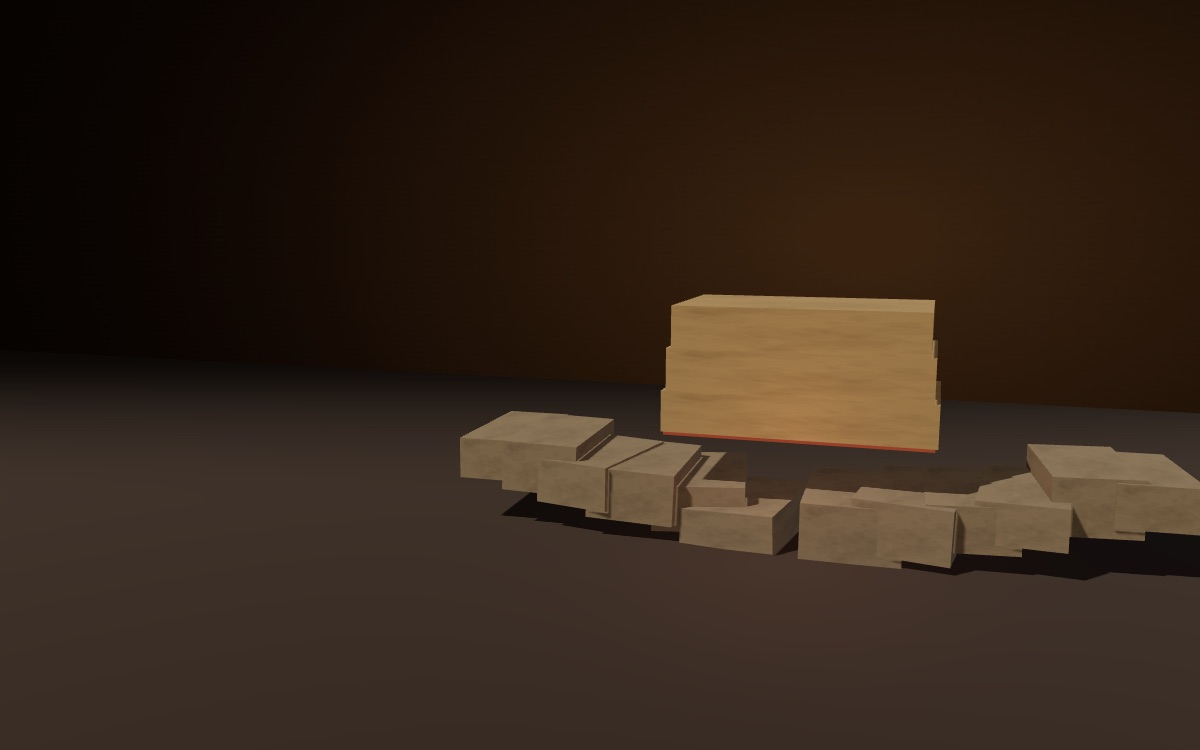
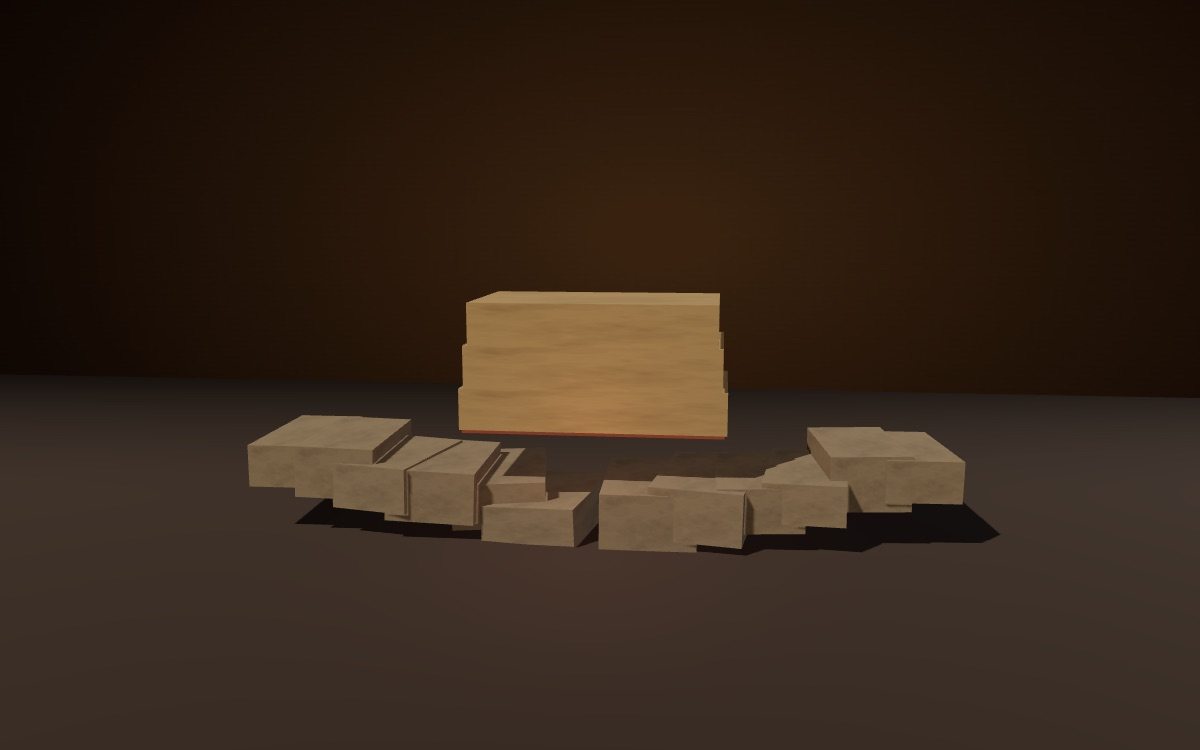
Glossaire : lutte-des-classes réécrite selon la charte, direction artistique « l'immeuble en coupe »

Changed region(s): [[0.185, 0.368, 1.0, 0.7973], [0.9558, 0.5213, 1.0, 0.552]]

diff --git a/glossaire/mondes/lutte-des-classes/essai.html b/glossaire/mondes/lutte-des-classes/essai.html
@@ -1,55 +1,80 @@
-<!-- L'ESSAI — le corps de /glossaire/lutte-des-classes. Première page de notion
+<!-- L'ESSAI : le corps de /glossaire/lutte-des-classes. Première page de notion
      tirée du Manifeste : data-s="1" partout, le texte de Laura Lafargue tenant
-     en une seule page Wikisource, donc en une seule section de liseuse. Toutes
-     les citations sont relevées dans le texte que la liseuse sert (typographie
-     comprise) et chacune mène au passage. La lettre à Weydemeyer, la note
-     d'Engels de 1888 et le chapitre inachevé du Livre III ne sont pas servis :
-     ils sont PARAPHRASÉS et situés, jamais cités entre guillemets. -->
+     en une seule page Wikisource, donc en une seule section de liseuse.
+     Réécrit en octobre 2026 selon glossaire/mondes/CHARTE.md.
+     Toutes les citations sont relevées dans le texte que la liseuse sert
+     (apostrophe typographique, majuscules de Lafargue comprises) et chacune
+     mène au passage. La lettre à Weydemeyer, la note d'Engels de 1888 et le
+     chapitre inachevé du Livre III ne sont pas servis : ils sont PARAPHRASÉS
+     et situés, jamais cités entre guillemets. -->
 
 <section class="nt-sec" data-etape="phrase" id="difficulte">
-<h2>Une phrase trop connue</h2>
-<p>Il n'est guère de phrase de Marx et d'Engels que l'on cite davantage que celle qui ouvre la première partie du <i>Manifeste</i>, et il n'en est guère que l'on lise moins. Sa célébrité même en fait un obstacle, en cela qu'elle a pris la forme d'un slogan&nbsp;: on croit y entendre que l'histoire humaine se réduirait à un seul conflit, toujours le même, entre ceux qui ont et ceux qui n'ont pas. Or le texte, dès le paragraphe suivant, dit tout autre chose, et c'est en le suivant de près qu'on mesure ce que la thèse affirme et ce qu'elle n'affirme pas. La phrase énumère d'abord des couples&nbsp;:</p>
+<h2>Que dit la première phrase du <i>Manifeste</i>&nbsp;?</h2>
+<p class="nt-lead">Elle dit que toute société divisée repose sur une opposition entre ceux qui dominent et ceux qui sont dominés, et que cette opposition fait l'histoire. Le paragraphe suivant décrit pourtant les sociétés passées comme une échelle de rangs&nbsp;: c'est sous cette échelle que l'opposition se trouve.</p>
+<p>Peu de phrases de Marx et d'Engels sont plus citées que celle qui ouvre la première partie du <i>Manifeste du parti communiste</i>&nbsp;:</p>
+<blockquote data-s="1" data-q="L’histoire de toute société jusqu’à nos jours n’a été que l’histoire de luttes de classes"><p>L’histoire de toute société jusqu’à nos jours n’a été que l’histoire de luttes de classes.</p></blockquote>
+<p>Elle est devenue un slogan, et le slogan a recouvert la phrase. On croit y entendre que l'histoire humaine se réduit à un seul conflit, toujours le même, entre ceux qui ont et ceux qui n'ont pas. Le texte procède autrement. Il commence par énumérer des couples, qui changent de nom d'une époque à l'autre&nbsp;:</p>
 <blockquote data-s="1" data-q="Hommes libres et esclaves, patriciens et plébéiens, barons et serfs, maîtres de jurandes et compagnons, en un mot oppresseurs et opprimés, en opposition constante, ont mené une guerre ininterrompue, tantôt ouverte, tantôt dissimulée"><p>Hommes libres et esclaves, patriciens et plébéiens, barons et serfs, maîtres de jurandes et compagnons, en un mot oppresseurs et opprimés, en opposition constante, ont mené une guerre ininterrompue, tantôt ouverte, tantôt dissimulée […]</p></blockquote>
-<p>Toute la difficulté est là. Les couples changent de nom d'une époque à l'autre, et l'opposition, elle, demeure&nbsp;; mais aussitôt après, le texte décrit les sociétés anciennes non comme deux camps, mais comme <q data-s="1" data-q="une division hiérarchique de la société, une échelle graduée de positions sociales">une division hiérarchique de la société, une échelle graduée de positions sociales</q>, où l'on trouve à Rome des patriciens, des chevaliers, des plébéiens et des esclaves, et <q data-s="1" data-q="dans chacune de ces classes, des gradations spéciales">dans chacune de ces classes, des gradations spéciales</q>. La thèse ne prétend donc pas que les sociétés passées aient été divisées en deux&nbsp;: elles étaient étagées, et c'est sous cet étagement que le texte fait apparaître une opposition. Il faut, pour comprendre la notion, tenir ensemble les deux descriptions, l'échelle et l'antagonisme, et c'est pourquoi nous partirons de leur écart plutôt que de la formule.</p>
-<p>Encore la formule elle-même a-t-elle été restreinte par l'un de ses auteurs. Dans une note ajoutée à l'édition anglaise de 1888, Engels précise qu'il faut entendre par là toute l'histoire <em>écrite</em>&nbsp;: en 1847, la préhistoire des sociétés était presque inconnue, et les travaux venus depuis — sur la propriété commune du sol, sur l'organisation de la gens — ont montré que la division en classes a eu un commencement. La restriction n'affaiblit pas la thèse, elle en précise la portée&nbsp;: la lutte des classes n'est pas une constante de la nature humaine, c'est un fait d'histoire, et ce qui a commencé peut finir.</p>
+<p>Aussitôt après, il décrit les mêmes sociétés tout autrement. On y trouve <q data-s="1" data-q="une division hiérarchique de la société, une échelle graduée de positions sociales">une division hiérarchique de la société, une échelle graduée de positions sociales</q>&nbsp;: à Rome des patriciens, des chevaliers, des plébéiens et des esclaves, au Moyen Âge des seigneurs, des vassaux, des maîtres, des compagnons et des serfs, et <q data-s="1" data-q="dans chacune de ces classes, des gradations spéciales">dans chacune de ces classes, des gradations spéciales</q>. Les sociétés anciennes étaient donc étagées. C'est sous cet étagement que le texte fait apparaître une opposition. Pour comprendre la notion, il faut tenir ensemble les deux descriptions, l'échelle et l'antagonisme, et c'est de leur écart qu'on partira.</p>
+<p>Engels a lui-même restreint la portée de la phrase. Dans une note ajoutée à l'édition anglaise de 1888, il précise qu'il faut entendre toute l'histoire <em>écrite</em>&nbsp;: en 1847, on ne savait presque rien de la préhistoire, et les travaux parus depuis sur la propriété commune du sol et sur l'organisation de la gens ont montré que la division en classes a eu un commencement. La thèse y gagne en exactitude. La lutte des classes est un fait d'histoire, et ce qui a commencé peut finir.</p>
 </section>
 
 <section class="nt-sec" data-etape="ou" id="ou">
-<h2>Où le texte la pose&nbsp;: en tête, et sans la définir</h2>
-<p>Le <i>Manifeste</i> n'est pas un traité, et la place de la notion ne s'y comprend qu'à partir de ce qu'il est&nbsp;: un programme, rédigé par Marx et Engels pour la Ligue des communistes à la fin de 1847 et publié à Londres en février 1848. On n'y trouvera nulle part de définition de la classe ni de la lutte des classes. La notion n'est pas exposée, elle est mise au travail, et c'est précisément ce qui justifie qu'elle vienne en tête&nbsp;: la première phrase ne résume pas le texte, elle en fournit la grille de lecture. Si l'histoire est celle de luttes de classes, alors la société bourgeoise n'en est pas le terme mais un moment, la bourgeoisie doit être jugée à ce qu'elle a fait dans cette histoire, et le prolétariat se présente comme la classe que ce moment a produite. Tout l'ordre de la première partie découle de là, comme le montre le <a href="/oeuvres/manifeste#deriv">cheminement du Manifeste</a>.</p>
-<p>La nouveauté de la notion n'est d'ailleurs pas où on la place d'ordinaire, et Marx lui-même a pris soin de le dire. Dans une lettre à Joseph Weydemeyer du 5 mars 1852, il écrit en substance que ce n'est pas à lui que revient le mérite d'avoir découvert l'existence des classes ni leur lutte, que des historiens bourgeois — on pense aux historiens de la Restauration, Augustin Thierry ou Guizot — en avaient décrit le développement bien avant lui, et que ce qu'il a apporté tient ailleurs&nbsp;: dans la liaison de l'existence des classes à des phases déterminées du développement de la production, et dans la thèse que cette lutte conduit à une transition vers une société sans classes. Le concept n'est donc pas l'observation du conflit, que d'autres avaient faite, mais son inscription dans l'histoire des modes de production.</p>
-<p>Un détail de traduction mérite qu'on s'y arrête, parce qu'il touche au sens. L'allemand dit <i lang="de">Klassenkämpfe</i>, au pluriel&nbsp;: des luttes de classes, non une lutte unique. Laura Lafargue le respecte dans la première phrase, puis écrit plus loin, au singulier et avec l'article, <q data-s="1" data-q="au moment où la lutte des classes approche de l’heure décisive">au moment où la lutte des classes approche de l'heure décisive</q>. Le glissement n'est pas une infidélité&nbsp;: il suit le texte lui-même, qui part de luttes multiples et locales pour montrer comment elles deviennent une seule lutte. Le pluriel de la première phrase est la condition de ce que le reste démontre.</p>
+<h2>Pourquoi le <i>Manifeste</i> ne définit-il pas la lutte des classes&nbsp;?</h2>
+<p class="nt-lead">Parce qu'il s'en sert comme d'une méthode. La notion vient en tête comme une grille de lecture, et tout le reste du texte l'applique à la société moderne.</p>
+<p>Le <i>Manifeste</i> est un programme, rédigé par Marx et Engels pour la Ligue des communistes à la fin de 1847 et publié à Londres en février 1848. On n'y trouve aucune définition de la classe ni de la lutte des classes. La première phrase sert de méthode&nbsp;: si l'histoire est faite de luttes de classes, la société bourgeoise en est un moment et non le terme, la bourgeoisie se juge à ce qu'elle a fait dans cette histoire, et le prolétariat apparaît comme la classe que ce moment a produite. L'ordre de la première partie, «&nbsp;Bourgeois et prolétaires&nbsp;», découle de là, comme le montre le <a href="/oeuvres/manifeste#deriv">cheminement du Manifeste</a>.</p>
+<p>Marx a pris soin de dire où se trouvait sa contribution. Dans une lettre à Joseph Weydemeyer du 5 mars 1852, il écrit en substance que le mérite d'avoir découvert l'existence des classes et leur lutte ne lui revient pas&nbsp;: des historiens bourgeois en avaient décrit le développement bien avant lui (on pense aux historiens français de la Restauration, comme Augustin Thierry ou Guizot). Ce qu'il revendique tient en deux points&nbsp;: avoir lié l'existence des classes à des phases déterminées du développement de la production, et soutenu que cette lutte mène à une transition vers une société sans classes. Le concept marxien ajoute donc au constat du conflit son inscription dans l'histoire de la production.</p>
+<p>Un détail de traduction touche au sens. L'allemand dit <i lang="de">Klassenkämpfe</i>, au pluriel&nbsp;: des luttes de classes. Laura Lafargue respecte ce pluriel dans la première phrase, puis écrit plus loin, au singulier et avec l'article, <q data-s="1" data-q="au moment où la lutte des classes approche de l’heure décisive">au moment où la lutte des classes approche de l’heure décisive</q>. Elle suit ainsi le mouvement du texte, qui part de luttes multiples et locales pour montrer comment elles deviennent une seule lutte. Le pluriel de la première phrase annonce ce que la suite va démontrer.</p>
 </section>
 
 <section class="nt-sec" data-etape="simplification" id="simplification">
-<h2>La distinction&nbsp;: l'échelle et l'antagonisme</h2>
-<p>Deux manières de décrire une société se trouvent donc côte à côte dans le texte, et la notion tient dans leur différence. La première est une échelle&nbsp;: des rangs, des positions plus ou moins élevées, un continu de gradations où chacun est au-dessus de quelqu'un et au-dessous de quelqu'un d'autre. La seconde est un antagonisme&nbsp;: un rapport où la condition de l'un est la condition de l'autre, de sorte qu'ils ne peuvent être pensés séparément. Une échelle se décrit, un antagonisme s'explique. Or la société moderne, selon le <i>Manifeste</i>, n'a pas supprimé l'antagonisme&nbsp;; elle <q data-s="1" data-q="n’a fait que substituer aux anciennes, de nouvelles classes, de nouvelles conditions d’oppression, de nouvelles formes de lutte">n'a fait que substituer aux anciennes, de nouvelles classes, de nouvelles conditions d'oppression, de nouvelles formes de lutte</q>. Ce qui la distingue est ailleurs&nbsp;:</p>
+<h2>Qu'est-ce qui distingue une classe d'un rang&nbsp;?</h2>
+<p class="nt-lead">Un rang est une place sur une échelle&nbsp;; une classe se définit par son rapport à une autre classe, dont elle ne peut être séparée. L'époque bourgeoise, selon le <i>Manifeste</i>, fait passer la société de l'échelle à l'antagonisme.</p>
+<p>Une échelle se décrit&nbsp;: des positions plus ou moins élevées, un continu de gradations où chacun se trouve au-dessus de quelqu'un et au-dessous d'un autre. Un antagonisme, lui, s'explique&nbsp;: c'est un rapport où la condition de l'un fait la condition de l'autre, de sorte qu'on ne peut penser l'un sans l'autre. Le seigneur n'est seigneur que par le serf qui lui doit la corvée. La société moderne n'a pas supprimé cet antagonisme. Elle <q data-s="1" data-q="n’a fait que substituer aux anciennes, de nouvelles classes, de nouvelles conditions d’oppression, de nouvelles formes de lutte">n’a fait que substituer aux anciennes, de nouvelles classes, de nouvelles conditions d’oppression, de nouvelles formes de lutte</q>. Sa nouveauté est ailleurs&nbsp;:</p>
 <blockquote data-s="1" data-q="Cependant, le caractère distinctif de notre époque, de l’ère de la Bourgeoisie, est d’avoir simplifié les antagonismes de classes"><p>Cependant, le caractère distinctif de notre époque, de l’ère de la Bourgeoisie, est d’avoir simplifié les antagonismes de classes. La société se divise de plus en plus en deux vastes camps opposés, en deux classes ennemies&nbsp;: la Bourgeoisie et le Prolétariat.</p></blockquote>
-<p>Deux mots de cette phrase empêchent d'en faire une photographie. <i>Simplifié</i>, d'abord&nbsp;: la simplification est un résultat, non un état premier, et elle désigne le passage de l'échelle à l'antagonisme — les gradations se résorbent à mesure que la société se polarise. <i>De plus en plus</i>, ensuite&nbsp;: il s'agit d'une tendance et non d'un recensement. Les couches intermédiaires ne disparaissent pas par décret, elles tombent. Les petits industriels, les marchands, les artisans, les paysans propriétaires succombent dans la concurrence avec les grands capitaux, si bien que <q data-s="1" data-q="le Prolétariat se recrute dans toutes les classes de la population">le Prolétariat se recrute dans toutes les classes de la population</q>.</p>
-<p>Ce qui définit une classe, dès lors, n'est ni le revenu ni le prestige, qui sont des positions sur l'échelle, mais le rapport aux moyens de production. La bourgeoisie les possède&nbsp;; le prolétariat est la classe des ouvriers modernes <q data-s="1" data-q="qui ne vivent qu’à la condition de trouver du travail, et qui n’en trouvent plus dès que leur travail cesse d’agrandir le capital">qui ne vivent qu'à la condition de trouver du travail, et qui n'en trouvent plus dès que leur travail cesse d'agrandir le capital</q>. On reconnaît là, en germe, ce que <i>Le Capital</i> établira sous les noms de <a href="/glossaire/force-de-travail">force de travail</a> et d'<a href="/glossaire/armee-de-reserve">armée de réserve</a>&nbsp;: le <i>Manifeste</i> énonce le rapport, le livre de 1867 en démontrera le mécanisme.</p>
+<p>Deux mots empêchent de lire cette phrase comme une photographie. «&nbsp;Simplifié&nbsp;» désigne un résultat&nbsp;: les gradations se résorbent à mesure que la société se polarise. «&nbsp;De plus en plus&nbsp;» désigne une tendance, et le texte ne prétend pas recenser la population. Les couches intermédiaires tombent l'une après l'autre. Les petits industriels, les marchands, les artisans, les paysans propriétaires succombent dans la concurrence avec les grands capitaux, si bien que <q data-s="1" data-q="le Prolétariat se recrute dans toutes les classes de la population">le Prolétariat se recrute dans toutes les classes de la population</q>.</p>
+<p>Ce qui fait une classe, dès lors, est son rapport aux moyens de production, c'est-à-dire aux machines, aux bâtiments, aux matières sans lesquels on ne peut pas travailler. Le revenu et le prestige restent des places sur l'échelle. La bourgeoisie possède les moyens de production. Le prolétariat est la classe des ouvriers modernes <q data-s="1" data-q="qui ne vivent qu’à la condition de trouver du travail, et qui n’en trouvent plus dès que leur travail cesse d’agrandir le capital">qui ne vivent qu’à la condition de trouver du travail, et qui n’en trouvent plus dès que leur travail cesse d’agrandir le capital</q>. On reconnaît en germe ce que <i>Le Capital</i> établira sous les noms de <a href="/glossaire/force-de-travail">force de travail</a> et d'<a href="/glossaire/armee-de-reserve">armée de réserve</a>. L'échelle, d'ailleurs, ne disparaît pas&nbsp;: elle se reforme à l'intérieur de la fabrique, où les ouvriers sont placés sous <q data-s="1" data-q="une hiérarchie complète d’officiers et de sous-officiers">une hiérarchie complète d’officiers et de sous-officiers</q>. Elle a cessé de dire ce qu'est la société&nbsp;; elle organise le travail d'une des deux classes au service de l'autre.</p>
 </section>
 
 <section class="nt-sec" data-etape="organisation" id="mecanisme">
-<h2>Le mécanisme&nbsp;: comment des luttes deviennent une lutte de classe</h2>
-<p>Qu'une classe existe ne suffit pas à ce qu'elle lutte comme classe, et c'est le point que le texte développe avec le plus de soin. Il décrit une suite de phases. La lutte est d'abord menée par des ouvriers isolés, puis par ceux d'une même fabrique, puis par ceux d'un même métier dans une localité&nbsp;; et à ce stade elle se trompe d'objet, puisque les ouvriers s'en prennent aux instruments de production eux-mêmes, <q data-s="1" data-q="brisent les machines, brûlent les fabriques">brisent les machines, brûlent les fabriques</q>. Le prolétariat forme alors <q data-s="1" data-q="une masse incohérente, disséminée sur tout le pays, et désunie par la concurrence">une masse incohérente, disséminée sur tout le pays, et désunie par la concurrence</q>, et s'il lui arrive d'agir en masse, c'est au service des fins d'une autre classe.</p>
-<p>Ce qui change la situation n'est pas une prise de conscience tombée du ciel, mais le développement même de l'industrie. Elle concentre les ouvriers, égalise leurs conditions d'existence à mesure que la machine efface les différences dans le travail, rend leur situation plus précaire, et c'est ainsi que <q data-s="1" data-q="les prolétaires augmentent en force et prennent conscience de leur force">les prolétaires augmentent en force et prennent conscience de leur force</q>. Les moyens de communication font le reste&nbsp;:</p>
+<h2>Comment des luttes deviennent-elles une lutte de classe&nbsp;?</h2>
+<p class="nt-lead">Par étapes, que le développement de l'industrie rend possibles&nbsp;: des révoltes isolées et locales se relient entre elles et prennent un objet commun, qui est politique. Cette unité n'est jamais acquise une fois pour toutes.</p>
+<p>Qu'une classe existe ne suffit pas pour qu'elle lutte comme classe, et c'est le point que le texte développe avec le plus de soin. <q data-s="1" data-q="D’abord la lutte est engagée par des ouvriers isolés">D’abord la lutte est engagée par des ouvriers isolés</q>, ensuite par ceux d'une même fabrique, enfin par ceux d'un même métier dans une localité. À ce stade, elle se trompe d'adversaire. Les ouvriers s'en prennent aux instruments de production, <q data-s="1" data-q="brisent les machines, brûlent les fabriques">brisent les machines, brûlent les fabriques</q>, comme si l'ennemi était la machine. Le prolétariat forme alors <q data-s="1" data-q="une masse incohérente, disséminée sur tout le pays, et désunie par la concurrence">une masse incohérente, disséminée sur tout le pays, et désunie par la concurrence</q>, et quand il agit en masse, c'est encore pour les fins d'une autre classe.</p>
+<p>Le changement vient de l'industrie elle-même. Elle rassemble les ouvriers, rend leurs conditions semblables à mesure que la machine efface les différences de métier, et rend leur situation plus précaire. C'est ainsi que <q data-s="1" data-q="les prolétaires augmentent en force et prennent conscience de leur force">les prolétaires augmentent en force et prennent conscience de leur force</q>. Les moyens de communication font le reste, et ce que les bourgeois du Moyen Âge avaient mis des siècles à établir par leurs chemins vicinaux, les prolétaires l'établissent en quelques années par les chemins de fer&nbsp;:</p>
 <blockquote data-s="1" data-q="Or, il suffit de cette mise en contact pour transformer les nombreuses luttes locales qui partout revêtent le même caractère en une lutte nationale, en une lutte de classe"><p>Or, il suffit de cette mise en contact pour transformer les nombreuses luttes locales qui partout revêtent le même caractère en une lutte nationale, en une lutte de classe. Mais toute lutte de classe est une lutte politique.</p></blockquote>
-<p>La seconde phrase est décisive, en cela qu'elle interdit de séparer l'économique du politique. Une grève pour les salaires reste une affaire privée entre un patron et ses ouvriers tant qu'elle demeure locale&nbsp;; elle devient lutte de classe lorsqu'elle porte sur les conditions générales que la loi et l'État garantissent. Le texte en donne un exemple daté&nbsp;: profitant des divisions entre bourgeois, l'organisation ouvrière a arraché <q data-s="1" data-q="la loi de dix heures de travail en Angleterre">la loi de dix heures de travail en Angleterre</q>, dont <i>Le Capital</i> fera l'histoire à propos de la <a href="/glossaire/journee-de-travail">journée de travail</a> et de la <a href="/glossaire/legislation-de-fabrique">législation de fabrique</a>.</p>
-<p>Encore cette organisation n'est-elle jamais acquise. L'organisation du prolétariat en classe, et par suite en parti, <q data-s="1" data-q="est sans cesse détruite par la concurrence que se font les ouvriers entre eux">est sans cesse détruite par la concurrence que se font les ouvriers entre eux</q>, et c'est ce qui en fait un processus plutôt qu'un état&nbsp;: la même force qui divise les ouvriers est celle qui les rassemble, et la classe n'existe comme classe en lutte qu'à la condition de se refaire contre ce qui la défait. Le texte ajoute, et il faut entendre la phrase comme la constatation d'une tendance plutôt que comme une promesse, <q data-s="1" data-q="Mais elle renaît toujours">mais elle renaît toujours</q>.</p>
+<div class="nt-ex">
+<p class="nt-ex-t">Un exemple</p>
+<p>Prenons une grève dans une filature pour obtenir une augmentation de salaire. Tant qu'elle reste dans cette filature, elle oppose un patron à ses ouvriers&nbsp;: c'est une affaire privée, que le patron règle en cédant, en tenant bon ou en embauchant ailleurs. Marx et Engels donnent l'exemple inverse. En profitant des divisions entre bourgeois, l'organisation ouvrière a obtenu <q data-s="1" data-q="la loi de dix heures de travail en Angleterre">la loi de dix heures de travail en Angleterre</q>.</p>
+<p>Cette loi concerne toutes les fabriques du pays à la fois, et elle passe par l'État, qui en garantit l'application. La revendication porte désormais sur une condition commune à toute une classe, et elle s'adresse au pouvoir qui fixe cette condition. C'est en ce sens que toute lutte de classe est politique&nbsp;: elle vise les règles générales qui s'imposent à tous les patrons. <i>Le Capital</i> fera l'histoire de cette loi à propos de la <a href="/glossaire/journee-de-travail">journée de travail</a> et de la <a href="/glossaire/legislation-de-fabrique">législation de fabrique</a>.</p>
+</div>
+<p>Le <i>Manifeste</i> connaît un mouvement de ce genre, qu'il compte parmi les partis ouvriers déjà constitués&nbsp;: sa dernière partie annonce <q data-s="1" data-q="leur position vis-à-vis des Chartistes en Angleterre">leur position vis-à-vis des Chartistes en Angleterre</q>. Le chartisme réclamait le suffrage pour les ouvriers, c'est-à-dire une part du pouvoir politique. Le 10 avril 1848, quelques semaines après la parution du <i>Manifeste</i>, il rassemblait une foule immense à Kennington Common, au sud de Londres.</p>
+<div data-planche="kennington"></div>
+<p>Cette unité reste fragile. L'organisation du prolétariat en classe, et par suite en parti, <q data-s="1" data-q="est sans cesse détruite par la concurrence que se font les ouvriers entre eux">est sans cesse détruite par la concurrence que se font les ouvriers entre eux</q>. La même industrie qui rassemble les ouvriers les met en concurrence pour les places, et la classe n'existe comme classe en lutte qu'en se refaisant contre ce qui la défait. Le texte ajoute&nbsp;: <q data-s="1" data-q="Mais elle renaît toujours">mais elle renaît toujours</q>. On peut lire la phrase comme le constat d'une tendance plutôt que comme une promesse.</p>
 </section>
 
 <section class="nt-sec" data-etape="couches" id="ouvre">
-<h2>Ce que le concept ouvre&nbsp;: la dernière couche</h2>
-<p>Si l'histoire est celle de luttes de classes, on pourrait croire que la victoire du prolétariat ne serait qu'une relève de plus, une classe dominée prenant la place d'une classe dominante comme la bourgeoisie a pris celle de la noblesse. Le <i>Manifeste</i> soutient le contraire, et c'est là que la notion cesse d'être un principe d'explication pour devenir un principe politique. Toutes les classes qui ont conquis le pouvoir ont soumis la société à leur propre mode d'appropriation&nbsp;; or <q data-s="1" data-q="Les Prolétaires ne peuvent s’emparer des forces productives sociales qu’en abolissant leur propre mode d’appropriation">les Prolétaires ne peuvent s'emparer des forces productives sociales qu'en abolissant leur propre mode d'appropriation</q>, et par suite celui qui a eu cours jusqu'ici. D'où la phrase qui donne à la page sa figure&nbsp;:</p>
+<h2>Pourquoi la victoire du prolétariat ne serait-elle pas une relève de plus&nbsp;?</h2>
+<p class="nt-lead">Parce que le prolétariat ne possède rien qu'il pourrait imposer au reste de la société. Pour s'emparer des moyens de production, il doit abolir toute appropriation de classe, et donc les classes elles-mêmes.</p>
+<p>On pourrait croire que la victoire du prolétariat remplacerait une classe dominante par une autre, comme la bourgeoisie a remplacé la noblesse. Le <i>Manifeste</i> soutient le contraire. Toutes les classes qui ont conquis le pouvoir ont soumis la société à leur propre manière de s'approprier les produits du travail. La situation des prolétaires est différente&nbsp;: <q data-s="1" data-q="Les Prolétaires ne peuvent s’emparer des forces productives sociales qu’en abolissant leur propre mode d’appropriation">les Prolétaires ne peuvent s’emparer des forces productives sociales qu’en abolissant leur propre mode d’appropriation</q>, et avec lui tous ceux qui ont eu cours jusqu'ici. D'où la phrase qui donne à la scène de cette page sa figure&nbsp;:</p>
 <blockquote data-s="1" data-q="Tous les mouvements historiques ont été, jusqu’ici, des mouvements de minorités au profit de minorités"><p>Tous les mouvements historiques ont été, jusqu’ici, des mouvements de minorités au profit de minorités. Le mouvement prolétarien est le mouvement spontané de l’immense majorité au profit de l’immense majorité. Le Prolétariat, la dernière couche de la société actuelle, ne peut se redresser sans faire sauter toutes les couches superposées qui constituent la société officielle.</p></blockquote>
-<p>L'image est exacte, et elle rejoint l'échelle du début&nbsp;: une couche qui se trouve tout en bas ne peut se lever sans soulever toutes celles qui pèsent sur elle, et son émancipation ne peut donc pas être celle d'une classe parmi d'autres. La notion s'étend alors à tout ce que la société tient pour au-dessus des classes. L'État, d'abord&nbsp;: <q data-s="1" data-q="Le gouvernement moderne n’est qu’un comité administratif des affaires de la classe bourgeoise">le gouvernement moderne n'est qu'un comité administratif des affaires de la classe bourgeoise</q>, et plus généralement <q data-s="1" data-q="Le pouvoir politique, à proprement parler, est le pouvoir organisé d’une classe pour l’oppression d’une autre">le pouvoir politique, à proprement parler, est le pouvoir organisé d'une classe pour l'oppression d'une autre</q>. Les idées, ensuite&nbsp;: <q data-s="1" data-q="Les idées dominantes d’une époque n’ont jamais été que les idées de la classe dominante">les idées dominantes d'une époque n'ont jamais été que les idées de la classe dominante</q>.</p>
-<p>La conséquence est tirée à la fin de la deuxième partie. Le texte envisage bien une étape où le prolétariat se constitue en classe régnante&nbsp;; mais une domination qui abolit les conditions mêmes de l'antagonisme abolit du même coup sa propre domination de classe, et le pouvoir public perd alors son caractère politique. À la place de la société bourgeoise surgit <q data-s="1" data-q="une association où le libre développement de chacun est la condition du libre développement pour tous">une association où le libre développement de chacun est la condition du libre développement pour tous</q>. On remarquera que Lafargue écrit <i>pour tous</i> là où l'on cite d'ordinaire <i>de tous</i>&nbsp;: la préposition fait de la liberté de tous la destination de celle de chacun, plutôt que sa simple somme, et la nuance n'est pas indifférente à ce que le texte appelle <a href="/glossaire/communisme">communisme</a>.</p>
+<p>L'image rejoint l'échelle du début. Une couche placée tout en bas ne peut se lever sans soulever toutes celles qui pèsent sur elle, et son émancipation ne peut pas être celle d'une classe parmi d'autres. La notion s'étend alors à ce que la société présente comme au-dessus des classes. L'État d'abord&nbsp;: <q data-s="1" data-q="Le gouvernement moderne n’est qu’un comité administratif des affaires de la classe bourgeoise">le gouvernement moderne n’est qu’un comité administratif des affaires de la classe bourgeoise</q>, et plus généralement <q data-s="1" data-q="Le pouvoir politique, à proprement parler, est le pouvoir organisé d’une classe pour l’oppression d’une autre">le pouvoir politique, à proprement parler, est le pouvoir organisé d’une classe pour l’oppression d’une autre</q> (voir la page sur le <a href="/glossaire/pouvoir-politique">pouvoir politique</a>). Les idées ensuite&nbsp;: <q data-s="1" data-q="Les idées dominantes d’une époque n’ont jamais été que les idées de la classe dominante">les idées dominantes d’une époque n’ont jamais été que les idées de la classe dominante</q>.</p>
+<p>La fin de la deuxième partie en tire la conséquence. Le texte envisage une étape où le prolétariat devient classe dominante. Mais une domination qui abolit les conditions mêmes de l'antagonisme abolit du même coup sa propre domination de classe, et le pouvoir public perd alors son caractère politique. À la place de la société bourgeoise vient <q data-s="1" data-q="une association où le libre développement de chacun est la condition du libre développement pour tous">une association où le libre développement de chacun est la condition du libre développement pour tous</q>. Lafargue écrit «&nbsp;pour tous&nbsp;» là où l'on cite d'ordinaire «&nbsp;de tous&nbsp;». La préposition fait de la liberté de tous le but vers lequel tend celle de chacun, plutôt que leur simple somme, et la nuance compte pour comprendre ce que le texte appelle <a href="/glossaire/communisme">communisme</a>.</p>
 </section>
 
 <section class="nt-sec" data-etape="lectures" id="lectures">
-<h2>Les lectures et les contresens</h2>
-<p>Trois contresens se sont attachés à la notion, et chacun trouve sa réfutation dans le texte même qui l'a fait naître. Le premier est moral&nbsp;: la lutte des classes exprimerait le ressentiment des pauvres contre les riches, ou une haine que la théorie viendrait justifier. Il suffit de lire la suite pour s'en défaire, car la première partie du <i>Manifeste</i> est avant tout un éloge, et un éloge sans réserve, de la classe qu'elle combat&nbsp;: <q data-s="1" data-q="La bourgeoisie a joué dans l’histoire un rôle essentiellement révolutionnaire">la bourgeoisie a joué dans l'histoire un rôle essentiellement révolutionnaire</q>. Les classes y sont définies par des positions et des conditions d'existence, non par des intentions, et l'on ne peut à la fois reprocher à un texte son ressentiment et relever qu'il salue en son adversaire le créateur du <a href="/glossaire/force-productive">développement des forces productives</a>.</p>
-<p>Le deuxième contresens est sociologique&nbsp;: le <i>Manifeste</i> décrirait une société à deux classes, et serait réfuté par l'existence persistante des classes moyennes. Mais le texte connaît ces classes et leur consacre des paragraphes&nbsp;; il nomme la petite bourgeoisie, la classe moyenne qu'il juge réactionnaire, et jusqu'à cette <q data-s="1" data-q="voyoucratie des grandes villes">voyoucratie des grandes villes</q> que la réaction peut acheter. La division en deux camps est une tendance et un principe d'intelligibilité, non un tableau de la population. Il faut ajouter que Marx n'a jamais donné de définition achevée de la classe&nbsp;: le chapitre du troisième livre du <i>Capital</i> qui devait s'intituler «&nbsp;Les classes&nbsp;» s'interrompt au bout d'une page, sur la question de savoir ce qui fait une classe. Nous tenons, pour notre part, que cette interruption n'est pas un accident de manuscrit, et que la notion est relationnelle plutôt que taxinomique&nbsp;: elle ne sert pas à ranger les individus, elle sert à expliquer ce qui les oppose.</p>
-<p>Le troisième contresens est fataliste&nbsp;: la lutte des classes aurait une issue écrite d'avance. Le texte semble le soutenir lorsqu'il conclut la première partie en déclarant que la chute de la bourgeoisie et <q data-s="1" data-q="la victoire du Prolétariat sont également inévitables">la victoire du Prolétariat sont également inévitables</q>. Mais il a posé, dès sa deuxième phrase, une autre issue possible&nbsp;: la guerre des classes finissait toujours, ou par une transformation révolutionnaire de la société tout entière, <q data-s="1" data-q="ou par la destruction des deux classes en lutte">ou par la destruction des deux classes en lutte</q>. Entre ces deux phrases, nous retenons la première pour ce qu'elle dit de la structure et la seconde pour ce qu'elle dit de l'histoire&nbsp;: l'inévitable de 1848 est l'affirmation d'un programme qui s'adresse à une classe pour qu'elle agisse, non la prédiction d'un observateur qui attendrait.</p>
-<p>Reste ce qui fait l'intérêt de la notion pour qui lit Marx au-delà du <i>Manifeste</i>. Le texte de 1848 énonce l'antagonisme&nbsp;; il ne dit pas encore pourquoi il naît de l'échange le plus égal en apparence entre le possesseur d'argent et le vendeur de sa force de travail. C'est le travail du <i>Capital</i>, qui ira chercher l'antagonisme non plus dans l'histoire mais au cœur du procès de production, sous le nom de <a href="/glossaire/plus-value">plus-value</a>, et qui en fera voir l'origine dans l'<a href="/glossaire/accumulation-primitive">accumulation primitive</a>. Le <i>Manifeste</i> pose la thèse, le livre de 1867 en fournit la démonstration.</p>
+<h2>Comment lire la notion, et quels contresens éviter&nbsp;?</h2>
+<p class="nt-lead">La notion explique ce qui oppose les hommes, et Marx ne l'a jamais figée en classement. Trois contresens courants se corrigent en relisant le texte même qui les a fait naître.</p>
+<p>Marx n'a jamais donné de définition achevée de la classe. Le chapitre du troisième livre du <i>Capital</i> qui devait s'intituler «&nbsp;Les classes&nbsp;» s'interrompt au bout d'une page, sur la question de savoir ce qui fait une classe. Nous tenons que cette interruption a un sens&nbsp;: la notion est relationnelle, et une classe ne se définit que par l'autre classe à laquelle elle s'oppose. Le <i>Manifeste</i> pose cet antagonisme, mais il ne dit pas encore pourquoi il naît d'un échange qui paraît égal, celui du possesseur d'argent et du vendeur de sa force de travail. Ce sera le travail du <i>Capital</i>, qui ira chercher l'antagonisme dans le procès de production, sous le nom de <a href="/glossaire/plus-value">plus-value</a>, et en montrera l'origine dans l'<a href="/glossaire/accumulation-primitive">accumulation primitive</a>.</p>
+<div class="nt-cs">
+<p><span class="nt-cs-k">On lit souvent</span> La lutte des classes exprimerait le ressentiment des pauvres contre les riches, une haine que la théorie viendrait justifier.</p>
+<p><span class="nt-cs-k">Ce que dit le texte</span> La première partie du <i>Manifeste</i> fait l'éloge de la classe qu'elle combat&nbsp;: <q data-s="1" data-q="La bourgeoisie a joué dans l’histoire un rôle essentiellement révolutionnaire">la bourgeoisie a joué dans l’histoire un rôle essentiellement révolutionnaire</q>. Elle lui doit le <a href="/glossaire/force-productive">développement des forces productives</a>. Les classes y sont définies par leur position et leurs conditions d'existence, et les intentions des individus n'y entrent pas.</p>
+</div>
+<div class="nt-cs">
+<p><span class="nt-cs-k">On lit souvent</span> Le <i>Manifeste</i> décrirait une société à deux classes, et l'existence durable des classes moyennes suffirait à le réfuter.</p>
+<p><span class="nt-cs-k">Ce que dit le texte</span> Il connaît ces couches et leur consacre des paragraphes&nbsp;: la petite bourgeoisie, les artisans, les paysans, jusqu'à cette <q data-s="1" data-q="voyoucratie des grandes villes">voyoucratie des grandes villes</q> que la réaction peut acheter. Les deux camps désignent une tendance et un principe d'explication. Ils ne prétendent pas décrire la population à une date donnée.</p>
+</div>
+<div class="nt-cs">
+<p><span class="nt-cs-k">On lit souvent</span> L'issue de la lutte serait écrite d'avance, et la théorie annoncerait la victoire des opprimés comme une prédiction.</p>
+<p><span class="nt-cs-k">Ce que dit le texte</span> La première partie se termine bien sur l'idée que la chute de la bourgeoisie et <q data-s="1" data-q="la victoire du Prolétariat sont également inévitables">la victoire du Prolétariat sont également inévitables</q>. Mais dès sa deuxième phrase, le texte a posé une autre issue&nbsp;: la guerre des classes finissait toujours par une transformation révolutionnaire de la société tout entière, <q data-s="1" data-q="ou par la destruction des deux classes en lutte">ou par la destruction des deux classes en lutte</q>. L'«&nbsp;inévitable&nbsp;» de 1848 appartient à un programme qui s'adresse à une classe pour qu'elle agisse.</p>
+</div>
 </section>

diff --git a/glossaire/mondes/lutte-des-classes/monde.js b/glossaire/mondes/lutte-des-classes/monde.js
@@ -216,16 +216,10 @@ window.LM_MONDE = function (canvas) {
     var az = lerp(lerp(-0.30, 0.22, ss(0.3, 1.9, G)), 0.08, st.simpl);
     var cible = new THREE.Vector3(0, cy, 0);
     camera.position.set(Math.sin(az) * dist + 0.03 * Math.sin(TT * 0.23), cy + lerp(1.15, 2.9, st.assoc) + 0.02 * Math.sin(TT * 0.31), Math.cos(az) * dist);
-    /* au large, la colonne de texte couvre la gauche du cadre : on vise à
-       GAUCHE du sujet pour le poser dans la moitié droite — plus fort pour
-       l'échelle, haute et étroite, que pour le rang et le pavement, larges,
-       qu'un décalage fixe sortait du cadre par la droite (au-delà de 75 %
-       de la largeur le voile est levé). Sous 1100 px, la scène est une bande
-       au-dessus du texte : rien à dégager. */
-    var large = (canvas.clientWidth || 0) >= 1100;
-    var fwd = new THREE.Vector3().subVectors(cible, camera.position).normalize();
-    var right = new THREE.Vector3().crossVectors(fwd, new THREE.Vector3(0, 1, 0)).normalize();
-    aim.copy(cible).addScaledVector(right, large ? -lerp(0.31, 0.16, st.simpl) * camera.position.distanceTo(cible) : 0);
+    /* la scène est une figure posée en bas de page (oct. 2026) : plus de
+       colonne de texte à dégager, on vise le sujet lui-même, à toutes les
+       largeurs (l'image fixe, photographiée à 1200 px, aussi). */
+    aim.copy(cible);
     camera.lookAt(aim);
     render();
   }
